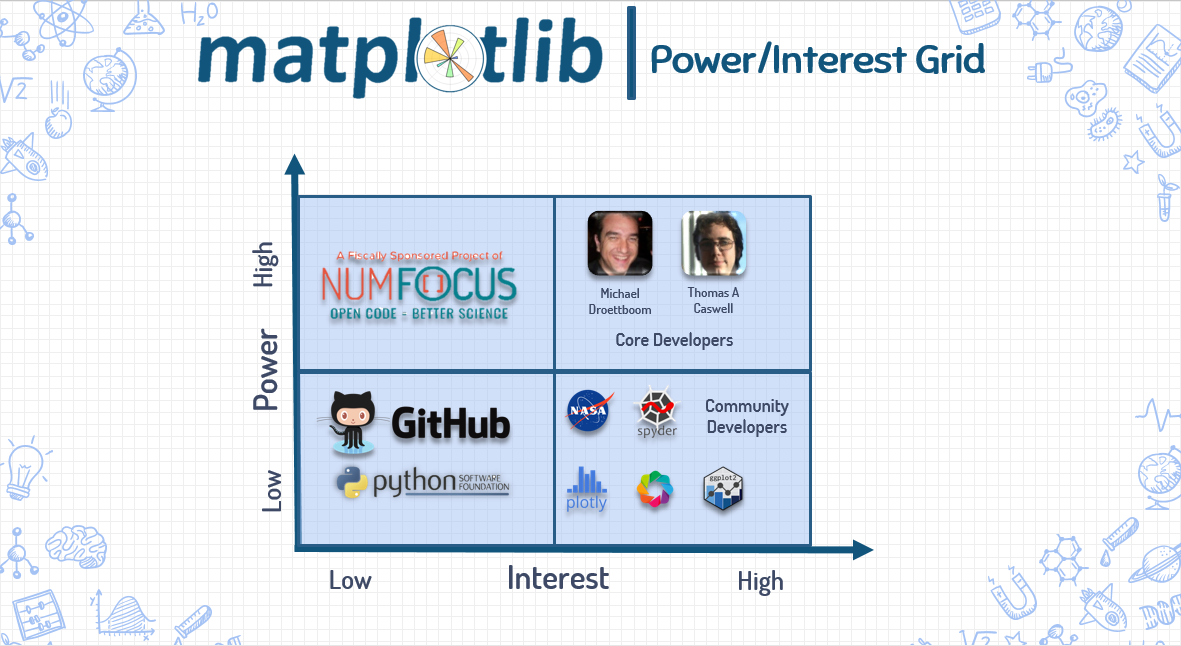
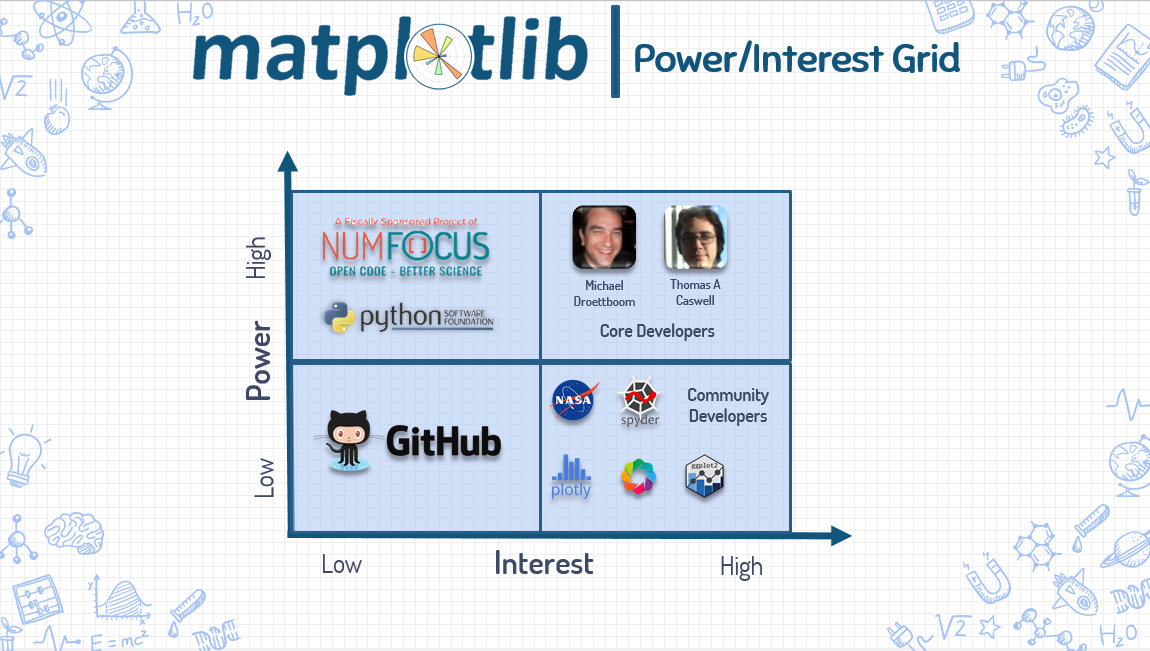
Implemented matplotlib chapter final feedback

diff --git a/matplotlib/chapter.md b/matplotlib/chapter.md
@@ -46,7 +46,7 @@ _Matplotlib is a data plotting library that is often considered as the grandfath
 <a name="introduction"></a>
 
 
-Matplotlib provides a convenient tool for creating 2D plots of data using Python. It is an open-source project that is fully supported by the Python scientific computing community. Matplotlib is now used by a variety of people for analysis and research purposes and was even used by NASA for data visualization of the [Phoenix](#http://matplotlib.org/users/screenshots.html#ellipses) spacecraft exploration on Mars.
+Matplotlib provides a convenient tool for creating 2D plots of data using Python. It is an open-source project that is fully supported by the Python scientific computing community. Matplotlib is now used by a variety of people for [analysis and research purposes](http://depsy.org/package/python/matplotlib) and was even used by NASA for data visualization of the [Phoenix](http://matplotlib.org/users/screenshots.html#ellipses) spacecraft exploration on Mars.
 
 Matplotlib was initially developed by a group of self-taught programmers with a scientific background. The founder of Matplotlib, John Hunter, started developing it to visualize biomedical data during his post-doctoral research in Neurobiology [[1]](#aosa) to visualize electrocorticography (ECG) data. At that time, the available proprietary data visualization tool was a limited resource, and John Hunter wanted to find an alternative tool that was available for all his team. MATLAB was the most popular alternative at that time, but he found that as a software program, it has limited capabilities in managing large biomedical data from various sources. Therefore, he opted to create a new tool that is similar to MATLAB using Python, which as a programming language has an advantage in handling data.
 
@@ -71,7 +71,7 @@ To start off our analysis, we will look at the stakeholders involved with Matplo
 _**Figure 1.** The Stakeholders of Matplotlib_
 
 
-There are no corporate sponsors for Matplotlib, but the main funding is provided through donations via the [NumFOCUS](http://www.numfocus.org/) organization, which can be classified as an **Acquirer**. The Python Software Foundation ([PSF](https://docs.python.org/3/license.html)) can be categorized as an **Assessor** of Matplotlib because they oversee the system's conformance to standards and legal regulation. Meanwhile, the development of Matplotlib is coordinated via Github, which can be classified as a **Supplier**.
+There are no corporate sponsors for Matplotlib, but the main funding is provided through donations via the [NumFOCUS](http://www.numfocus.org/) organization, which can be classified as an **Acquirer**. The Python Software Foundation ([PSF](https://docs.python.org/3/license.html)) can be categorized as an **Assessor** of Matplotlib because they oversee the system's conformance to standards and legal regulation. Meanwhile, the development of Matplotlib is coordinated via GitHub, which can be classified as a **Supplier**.
 
 The **Developers** of Matplotlib are divided into core developers and community developers. [John D. Hunter](https://github.com/jdh2358) is the founder and initial lead developer of Matplotlib, but he passed away in 2012. Now both [Michael Droettboom](https://github.com/mdboom) and [Thomas A. Caswell](https://github.com/tacaswell) act as lead developers. They are accompanied with 15 other core developers in developing Matplotlib. Many of the core developers also act as **Maintainers**, since they review all contributions to make sure it doesn't break the system. Matplotlib's **Support Staff** consists of a few core developers such as [Thomas A. Caswell](https://github.com/tacaswell), [Paul Hobson](https://github.com/phobson), and [Eric Firing](https://github.com/efiring), and also some community developers, such as [Nelle Varoquaux](https://github.com/NelleV).
 
@@ -89,11 +89,11 @@ _**Figure 2.** Power-Interest Grid_
 
 The power versus interest relation of the stakeholders are shown in [Figure 2](#fig-power) and are classified into 4 categories :
 
-- **Low power and low interest** : Github and the Python Software Foundation are stakeholders who do not have any control over Matplotlib, and do not have a significant role in the development of Matplotlib.    
+- **Low power and low interest** : GitHub is a stakeholder who does not has any control over Matplotlib, and does not has a significant role in the development of Matplotlib.    
 
 - **Low power and high interest** : Users, competitors, and community developers of Matplotlib are stakeholders who follow the latest development of Matplotlib and are active in the discussion of Matplotlib, but they do not have significant power to directly change the Matplotlib system.
 
-- **High power and low interest** : NumFOCUS is a stakeholder who directly affects development of Matplotlib, but it only provides funding without restricting the development.
+- **High power and low interest** : NumFOCUS and the Python Software Foundation (PSF) are stakeholders who directly affect the development of Matplotlib. NumFOCUS though only provides funding without restricting the development of Matplotlib, while the PSF develops Python which in turn directly affects Matplotlib itself. For both stakeholders, Matplotlib is only one of the few projects they affect and are not their main interest.
 
 - **High power and high interest** : [Michael Droettboom](https://github.com/mdboom) and [Thomas A. Caswell](https://github.com/tacaswell) are the lead developers of Matplotlib. Along with other core developers, they have significant interest and power in developing Matplotlib.
 
@@ -106,7 +106,7 @@ The power versus interest relation of the stakeholders are shown in [Figure 2](#
 <a name="context-view"></a>
 
 
-Next we will look into the relationships that exist between Matplotlib and its environment. This section also defines what the system does and doesn't do, and the boundaries between it and the outside world [[2]](#rw).
+Next we will look into the boundary that separates between Matplotlib and its environment, a.k.a the system's runtime context. This describes what the system does and doesn't do, and how the system interacts with external entities [[2]](#rw).
 
 
 ### 3.1. System Scope
@@ -162,9 +162,9 @@ Matplotlib is developed as a Python package and is hosted on the Python package 
 
 #### C. Development & Community
 
-A platform that plays an important role during development is `Github`, which is used for code versioning, issue tracking and project management. All code gets tested and integrated via continuous integration tools. Testing of the code uses the `pytest` and `Tox` package, and code coverage is tested using `Codecov`.
+A platform that plays an important role during development is `GitHub`, which is used for code versioning, issue tracking and project management. All code gets tested and integrated via continuous integration tools. Testing of the code uses the `pytest` and `Tox` package, and code coverage is tested using `Codecov`.
 
-The main communication channel used in the development of Matplotlib is through their [Github repository](https://github.com/matplotlib/matplotlib) and their [mailing list](https://sourceforge.net/p/matplotlib/mailman/). More open discussion is done via `Google Hangouts` and the [Matplotlib `Gitter` channel](https://gitter.im/matplotlib/matplotlib). The Matplotlib developers also provide support to users through [`Stackoverflow`](http://stackoverflow.com/questions/tagged/matplotlib).
+The main communication channel used in the development of Matplotlib is through their [GitHub repository](https://github.com/matplotlib/matplotlib) and their [mailing list](https://sourceforge.net/p/matplotlib/mailman/). More open discussion is done via `Google Hangouts` and the [Matplotlib `Gitter` channel](https://gitter.im/matplotlib/matplotlib). The Matplotlib developers also provide support to users through [`Stackoverflow`](http://stackoverflow.com/questions/tagged/matplotlib).
 
 
 <!-- ////////////////////////////////////////////////////////////////////////////////////////////////////////////////// -->
@@ -272,15 +272,15 @@ Matplotlib requires intensive numeric calculations to efficiently plot 2D data. 
 
 #### Design Standardization
 
-Matplotlib is a community effort which is developed through [Github](https://github.com/matplotlib/matplotlib). Development standards are communicated through their [developers's guide](http://matplotlib.org/devel/index.html).
+Matplotlib is a community effort which is developed through [GitHub](https://github.com/matplotlib/matplotlib). Development standards are communicated through their [developers's guide](http://matplotlib.org/devel/index.html).
 
-Matplotlib uses [PEP8](https://www.python.org/dev/peps/pep-0008/) as a standard style for Python code. It is a set of coding standards created by the Python software foundation. To support Python 2 and 3 from a single code base, Matplotlib uses the [six](http://pythonhosted.org/six/) Python library. Meanwhile, design quality is maintained through Pull Request reviews and discussions in Github, and larger design goals are compiled into the [Matplotlib Enhancement Proposal (MEP)](http://matplotlib.org/devel/MEP/index.html).
+Matplotlib uses [PEP8](https://www.python.org/dev/peps/pep-0008/) as a standard style for Python code. It is a set of coding standards created by the Python software foundation. To support Python 2 and 3 from a single code base, Matplotlib uses the [six](http://pythonhosted.org/six/) Python library. Meanwhile, design quality is maintained through Pull Request reviews and discussions in GitHub, and larger design goals are compiled into the [Matplotlib Enhancement Proposal (MEP)](http://matplotlib.org/devel/MEP/index.html).
 
 #### Testing Standardization
 
 Matplotlib uses standard Python testing libraries for their testing process. The tests mainly consists of unit tests which tests small components of the code, and also a Matplotlib specific "image comparison test". This test generates specific images using the Matplotlib code and then compares the results with baseline images generated previously.
 
-To be able to do the testing internally, developers are required to install [`pytest`](http://doc.pytest.org/en/latest/) and [`mock`](https://docs.python.org/dev/library/unittest.mock.html). [Ghostscript](https://www.ghostscript.com/) and [Inkscape](https://inkscape.org/en/) are also required for the image comparison test. To guarantee changes to the code do not introduce unexpected failures or conflicts, Matplotlib implements continuous integration using [Travis CI](https://travis-ci.org/) for unix environments and [Appveyor](https://www.appveyor.com/) for windows. Both CI platforms are integrated to Github and run on every new Pull Request. Matplotlib also uses [CodeCov](https://codecov.io/) to check the code coverage when there is a change in the test code. To accommodate testing on different versions of Python, Matplotlib uses [`tox`](https://tox.readthedocs.io/en/latest/).
+To be able to do the testing internally, developers are required to install [`pytest`](http://doc.pytest.org/en/latest/) and [`mock`](https://docs.python.org/dev/library/unittest.mock.html). [Ghostscript](https://www.ghostscript.com/) and [Inkscape](https://inkscape.org/en/) are also required for the image comparison test. To guarantee changes to the code do not introduce unexpected failures or conflicts, Matplotlib implements continuous integration using [Travis CI](https://travis-ci.org/) for unix environments and [Appveyor](https://www.appveyor.com/) for windows. Both CI platforms are integrated to GitHub and run on every new Pull Request. Matplotlib also uses [CodeCov](https://codecov.io/) to check the code coverage when there is a change in the test code. To accommodate testing on different versions of Python, Matplotlib uses [`tox`](https://tox.readthedocs.io/en/latest/).
 
 
 
